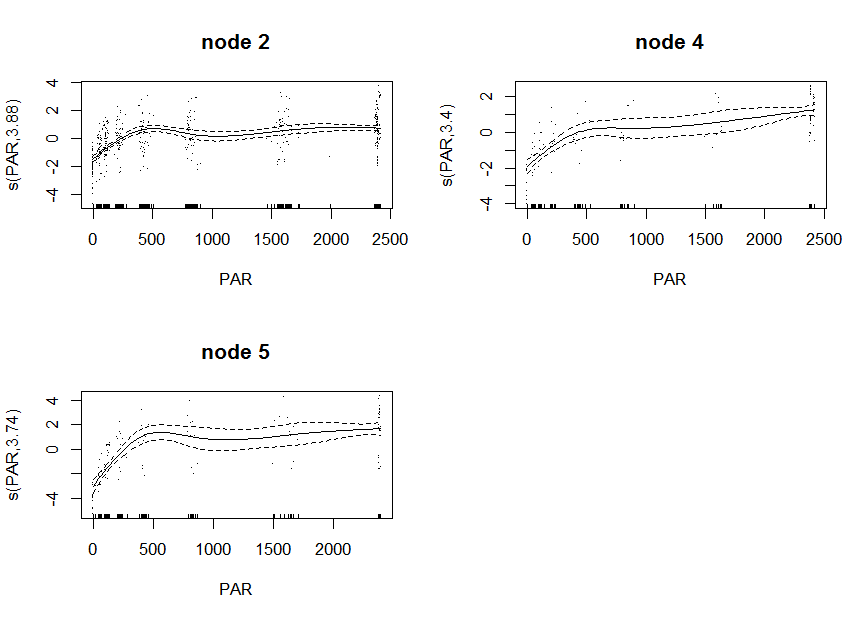
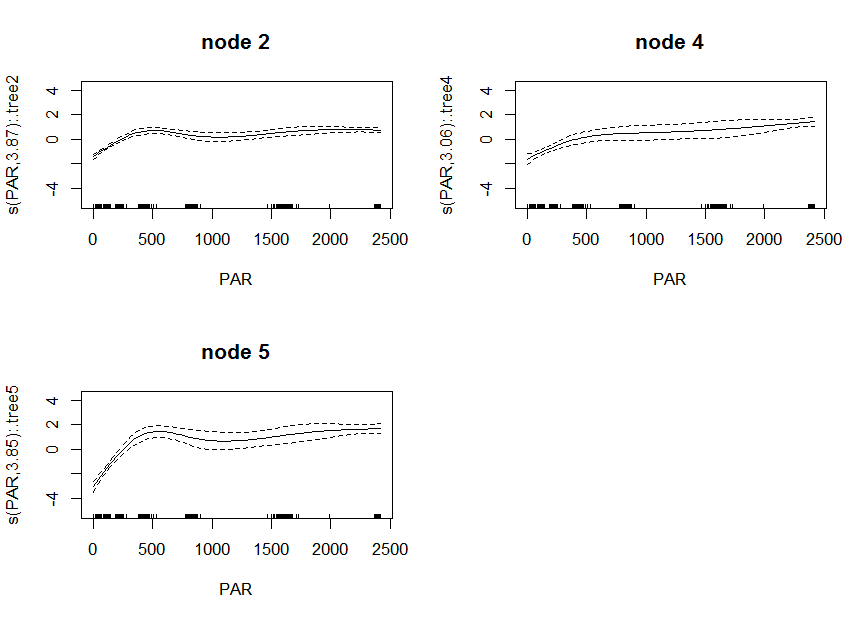
updates
Plots of terminal nodes now based on the full GAM. Passing argument like residuals does not seem to work though.

diff --git a/README.md b/README.md
@@ -47,14 +47,12 @@ Specifying the model formula
 The model is specified through a three- or fourth-part formula, comprising a response variable, local (subgroup-specific) terms, partitiong variables and global terms. Informally written, a full four-part GAM tree formula (with three-part left-hand side) can be described as:
 
 ``` r
-response ~ local terms | partitioning variables | global terms
+response ~ local terms | global terms | partitioning variables
 ```
 
-The response must be a single continuous variable. The local terms, separated from the response by a tilde (`~`), can comprise one or more smooth and/or parametric terms, as they would be specified in a model fitted with `gam()`. The partitioning variables, separated from the local terms by a vertical bar(`|`), are specified by providing their names. The global terms, separated from the partitioning variables by a vertical bar (`|`), can comprise one of more smooth and/or parametric terms, as they would be specified in a model fitted with `gam()`.
+The response must be a single continuous variable. The local terms, separated from the response by a tilde (`~`), can comprise one or more smooth and/or parametric terms, as they would be specified in a model fitted with `gam()`. The global terms, separated from the local terms, can also comprise one of more smooth and/or parametric terms, as they would be specified in a model fitted with `gam()`. The partitioning variables, separated from the global terms by a vertical bar(`|`), are specified by providing their names. One can think of this GAM tree formulation as: the effects of the local terms are estimated, conditional on the estimated global terms, conditional on a subgroup structure based on the partitioning variables.
 
-One can think of this GAM tree formulation as: the effects of the local terms are estimated, conditional on the estimated global terms, conditional on a subgroup structure based on the partitioning variables.
-
-It is not required to specify any global terms, they can simply be omitted by specifying only a two-part left-hand side. This yields a model with an estimated partition (subgroup structure) with subgroup-specific estimates of the (local) terms, without any global terms. The formula can be described as:
+It is not required to specify the global terms: they can simply be omitted by specifying only a two-part left-hand side. This yields a model with an estimated partition (subgroup structure) with subgroup-specific estimates of the (local) terms, without any global terms. The formula can then be described as:
 
 ``` r
 response ~ local terms | partitioning variables
@@ -112,10 +110,10 @@ gam.check(gt1$gamm)
 #> Basis dimension (k) checking results. Low p-value (k-index<1) may
 #> indicate that k is too low, especially if edf is close to k'.
 #> 
-#>                 k'  edf k-index p-value   
-#> s(PAR):.tree2 9.00 7.14    0.93   0.025 * 
-#> s(PAR):.tree4 9.00 3.83    0.93   0.020 * 
-#> s(PAR):.tree5 9.00 6.82    0.93   0.010 **
+#>                 k'  edf k-index p-value  
+#> s(PAR):.tree2 9.00 7.14    0.93   0.035 *
+#> s(PAR):.tree4 9.00 3.83    0.93   0.020 *
+#> s(PAR):.tree5 9.00 6.82    0.93   0.035 *
 #> ---
 #> Signif. codes:  0 '***' 0.001 '**' 0.01 '*' 0.05 '.' 0.1 ' ' 1
 ```
@@ -150,8 +148,8 @@ gam.check(gt2$gamm)
 #> indicate that k is too low, especially if edf is close to k'.
 #> 
 #>                  k'   edf k-index p-value   
-#> s(PAR):.tree2 17.00  7.73    0.92   0.015 * 
-#> s(PAR):.tree3 17.00  6.58    0.92   0.010 **
+#> s(PAR):.tree2 17.00  7.73    0.92   0.010 **
+#> s(PAR):.tree3 17.00  6.58    0.92   0.015 * 
 #> ---
 #> Signif. codes:  0 '***' 0.001 '**' 0.01 '*' 0.05 '.' 0.1 ' ' 1
 ```
